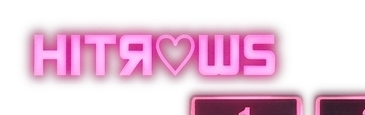
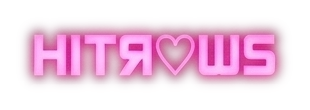
0.1.9: HITROWS glow re-sourced from its own dedicated asset file
User reorganised the layers: reverted pics/"light transp.png" back to
footswitch-glows-only (its pre-0.1.8 state) and split the HITROWS wordmark
glow into its own pics/hitrows.png. Re-cropped Resources/hitrowsglow.png
from that file (tighter bounds than the old shared-sheet crop, no "EMO
BOY" bleed) and re-verified the composite over bg-clean.png.
robotglow.png/bypassglow.png untouched - the reverted sheet matches what
they were already cropped from.

No logic changes, just the new asset + updated crop coordinates.

Version bumped to 0.1.9.

diff --git a/Source/PluginEditor.cpp b/Source/PluginEditor.cpp
@@ -94,10 +94,13 @@ namespace
     constexpr int kBypassGlowX = 815, kBypassGlowY = 315, kBypassGlowW = 180, kBypassGlowH = 110;
     juce::Rectangle<int> bypassGlowBounds() { return scaledNativeRect ({ kBypassGlowX, kBypassGlowY, kBypassGlowW, kBypassGlowH }); }
 
-    // HITROWS wordmark glow sprite bounds, same measurement approach
-    // (alpha bounding box of the cropped sprite, cross-checked visually
-    // against a composite over bg-clean.png before use).
-    constexpr int kHitrowsGlowX = 130, kHitrowsGlowY = 130, kHitrowsGlowW = 365, kHitrowsGlowH = 115;
+    // HITROWS wordmark glow sprite bounds. Originally cropped from the
+    // shared "light transp.png" sheet (0.1.8); the user split it into its
+    // own dedicated pics/hitrows.png afterwards and reverted the shared
+    // sheet, so this crop comes from that separate file now - same
+    // measurement approach (alpha bounding box, cross-checked visually as
+    // a composite over bg-clean.png before use), different source file.
+    constexpr int kHitrowsGlowX = 130, kHitrowsGlowY = 130, kHitrowsGlowW = 310, kHitrowsGlowH = 110;
     juce::Rectangle<int> hitrowsGlowBounds() { return scaledNativeRect ({ kHitrowsGlowX, kHitrowsGlowY, kHitrowsGlowW, kHitrowsGlowH }); }
 
     const juce::Colour kKnobTickColour { 190, 120, 150 }; // matches the fader caps' own inlaid stripe tone - user's pick over the brighter branding pink

diff --git a/HANDOFF.md b/HANDOFF.md
@@ -9,6 +9,26 @@ This was an autonomous session per the brief in
 `~/Downloads/logic-demo-brief-for-claude-code.md` — no check-ins, decisions
 made and documented here for the user to review and correct.
 
+## 2026-08-20: 0.1.9 - HITROWS glow moved to its own asset file
+
+User reorganised the source layers: reverted `pics/"light transp.png"`
+back to footswitch-glows-only (its pre-0.1.8 state - no HITROWS in it
+anymore), and split the wordmark glow into its own dedicated
+`pics/hitrows.png`. Re-cropped `Resources/hitrowsglow.png` from that new
+file (native bounds 130,130 to 440,240 - measured via alpha bounding box,
+which came out tighter than the old crop from the shared sheet: 310x110
+vs. 365x115, no "EMO BOY" bleed this time) and re-checked the composite
+over `bg-clean.png` before use, same as every other glow sprite in this
+project. `Resources/robotglow.png` and `bypassglow.png` are untouched -
+the reverted shared sheet matches what they were already cropped from.
+
+No logic changes - `GlowToggleButton`, the 30Hz timer sync, and
+`! isBypassed` all carry over unchanged from 0.1.8. Re-ran the same
+`tools/preview.cpp` bypassed/non-bypassed snapshots to confirm the new
+crop still lands correctly with no bleed into the neighbouring "1" button.
+
+Version bumped to 0.1.9. Pushed to `github.com/hitrows/emoboy`.
+
 ## 2026-08-20: 0.1.8 - HITROWS wordmark lights up when active
 
 User updated `pics/"light transp.png"` again, adding a glow variant of the
